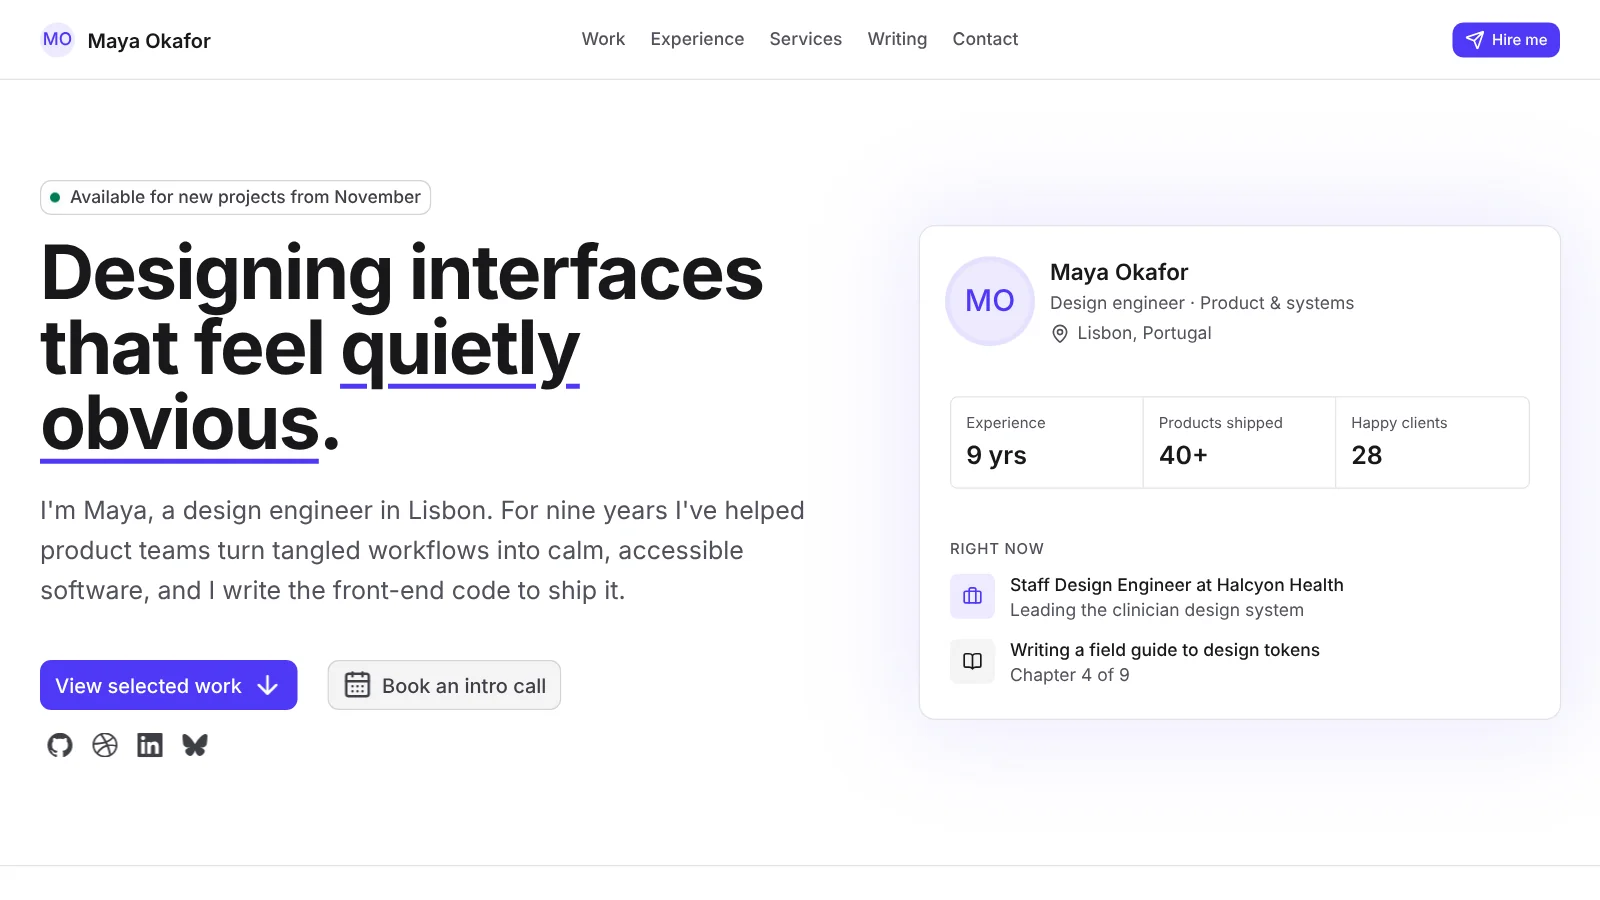
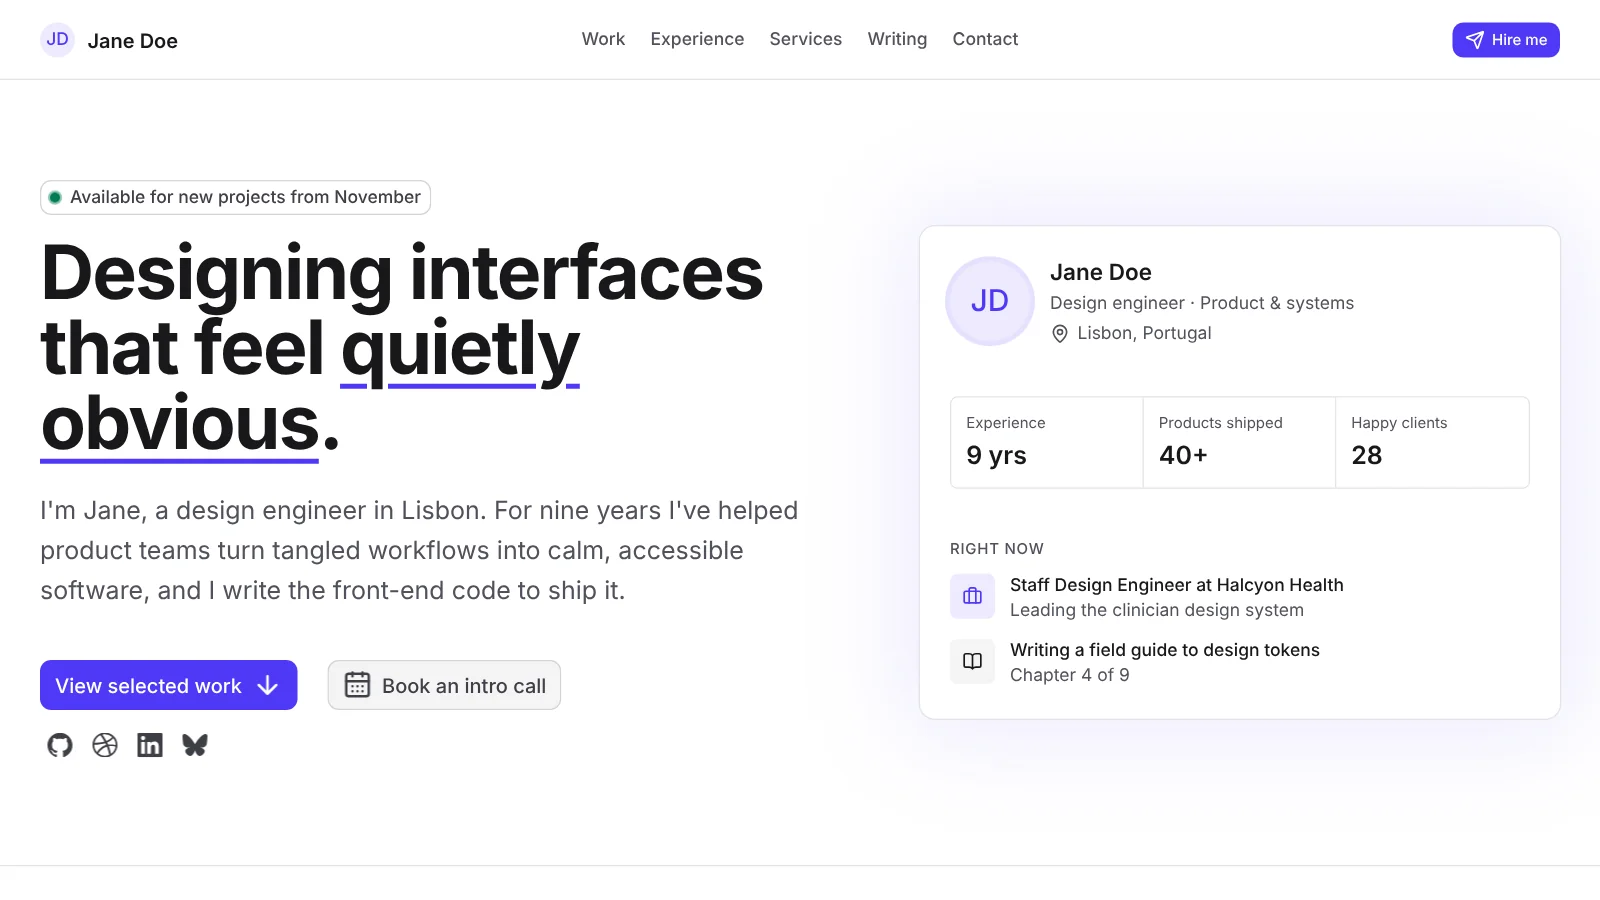
fix(preview): use a placeholder name in the portfolio template
The portfolio now belongs to "Jane Doe", an obviously made-up person,
and the contact form placeholder uses a different name so it doesn't
read as Jane writing to herself. The What's new screenshot is
recaptured to match.

Claude-Session: https://claude.ai/code/session_012c2BD5adsaDmCX3cpjiJ76

diff --git a/app/pages/templates/portfolio.vue b/app/pages/templates/portfolio.vue
@@ -266,7 +266,7 @@ const services = [
 const testimonials = [
   {
     quote:
-      "Maya has a rare ability to hold the whole system in her head while sweating the smallest interaction. Our clinicians noticed the difference in week one.",
+      "Jane has a rare ability to hold the whole system in her head while sweating the smallest interaction. Our clinicians noticed the difference in week one.",
     name: "Jonas Reyes",
     role: "VP Product, Halcyon Health",
   },
@@ -283,13 +283,13 @@ const testimonials = [
   },
   {
     quote:
-      "Maya's prototypes answered questions we didn't know we had. We cut two months of back-and-forth by testing her clickable flows with real travellers.",
+      "Jane's prototypes answered questions we didn't know we had. We cut two months of back-and-forth by testing her clickable flows with real travellers.",
     name: "Lena Fischer",
     role: "CEO, Wayfarer",
   },
   {
     quote:
-      "Kiln is one of the friendliest open-source projects I've contributed to, and that starts with how Maya reviews pull requests.",
+      "Kiln is one of the friendliest open-source projects I've contributed to, and that starts with how Jane reviews pull requests.",
     name: "Sam Adeyemi",
     role: "Open-source contributor",
   },
@@ -344,7 +344,7 @@ const writingLinks: ButtonProps[] = [
 const contactMethods = [
   {
     label: "Email",
-    value: "hello@mayaokafor.design",
+    value: "hello@janedoe.design",
     icon: "i-lucide-mail",
   },
   {
@@ -399,9 +399,9 @@ function onContactSubmit(event: FormSubmitEvent<ContactSchema>) {
           class="flex items-center gap-2.5 rounded-(--ui-radius) focus-visible:outline-2 focus-visible:outline-primary"
           @click="scrollToSection('top')"
         >
-          <UAvatar alt="Maya Okafor" color="primary" size="sm" />
+          <UAvatar alt="Jane Doe" color="primary" size="sm" />
           <span class="font-semibold text-(--ui-text-highlighted)">
-            Maya Okafor
+            Jane Doe
           </span>
         </button>
       </template>
@@ -456,7 +456,7 @@ function onContactSubmit(event: FormSubmitEvent<ContactSchema>) {
       </template>
 
       <template #description>
-        I'm Maya, a design engineer in Lisbon. For nine years I've helped
+        I'm Jane, a design engineer in Lisbon. For nine years I've helped
         product teams turn tangled workflows into calm, accessible software,
         and I write the front-end code to ship it.
       </template>
@@ -500,14 +500,14 @@ function onContactSubmit(event: FormSubmitEvent<ContactSchema>) {
         <UPageCard variant="outline" class="relative bg-(--ui-bg)">
           <div class="flex items-center gap-4">
             <UAvatar
-              alt="Maya Okafor"
+              alt="Jane Doe"
               color="primary"
               size="3xl"
               class="size-16 text-2xl ring-4 ring-primary/15"
             />
             <div class="min-w-0">
               <p class="text-lg font-semibold text-(--ui-text-highlighted)">
-                Maya Okafor
+                Jane Doe
               </p>
               <p class="text-sm text-(--ui-text-muted)">
                 Design engineer · Product & systems
@@ -879,7 +879,7 @@ function onContactSubmit(event: FormSubmitEvent<ContactSchema>) {
             <UFormField label="Name" name="name" required>
               <UInput
                 v-model="contactState.name"
-                placeholder="Jane Cooper"
+                placeholder="Alex Cooper"
                 autocomplete="name"
                 class="w-full"
               />
@@ -888,7 +888,7 @@ function onContactSubmit(event: FormSubmitEvent<ContactSchema>) {
               <UInput
                 v-model="contactState.email"
                 type="email"
-                placeholder="jane@company.com"
+                placeholder="alex@company.com"
                 autocomplete="email"
                 class="w-full"
               />
@@ -902,7 +902,7 @@ function onContactSubmit(event: FormSubmitEvent<ContactSchema>) {
           >
             <UTextarea
               v-model="contactState.message"
-              placeholder="Hi Maya, we're redesigning our onboarding and..."
+              placeholder="Hi Jane, we're redesigning our onboarding and..."
               :rows="5"
               autoresize
               class="w-full"
@@ -923,7 +923,7 @@ function onContactSubmit(event: FormSubmitEvent<ContactSchema>) {
     <UFooter class="border-t border-(--ui-border)">
       <template #left>
         <p class="text-sm text-(--ui-text-muted)">
-          © 2026 Maya Okafor. Designed and built in Lisbon.
+          © 2026 Jane Doe. Designed and built in Lisbon.
         </p>
       </template>
 
